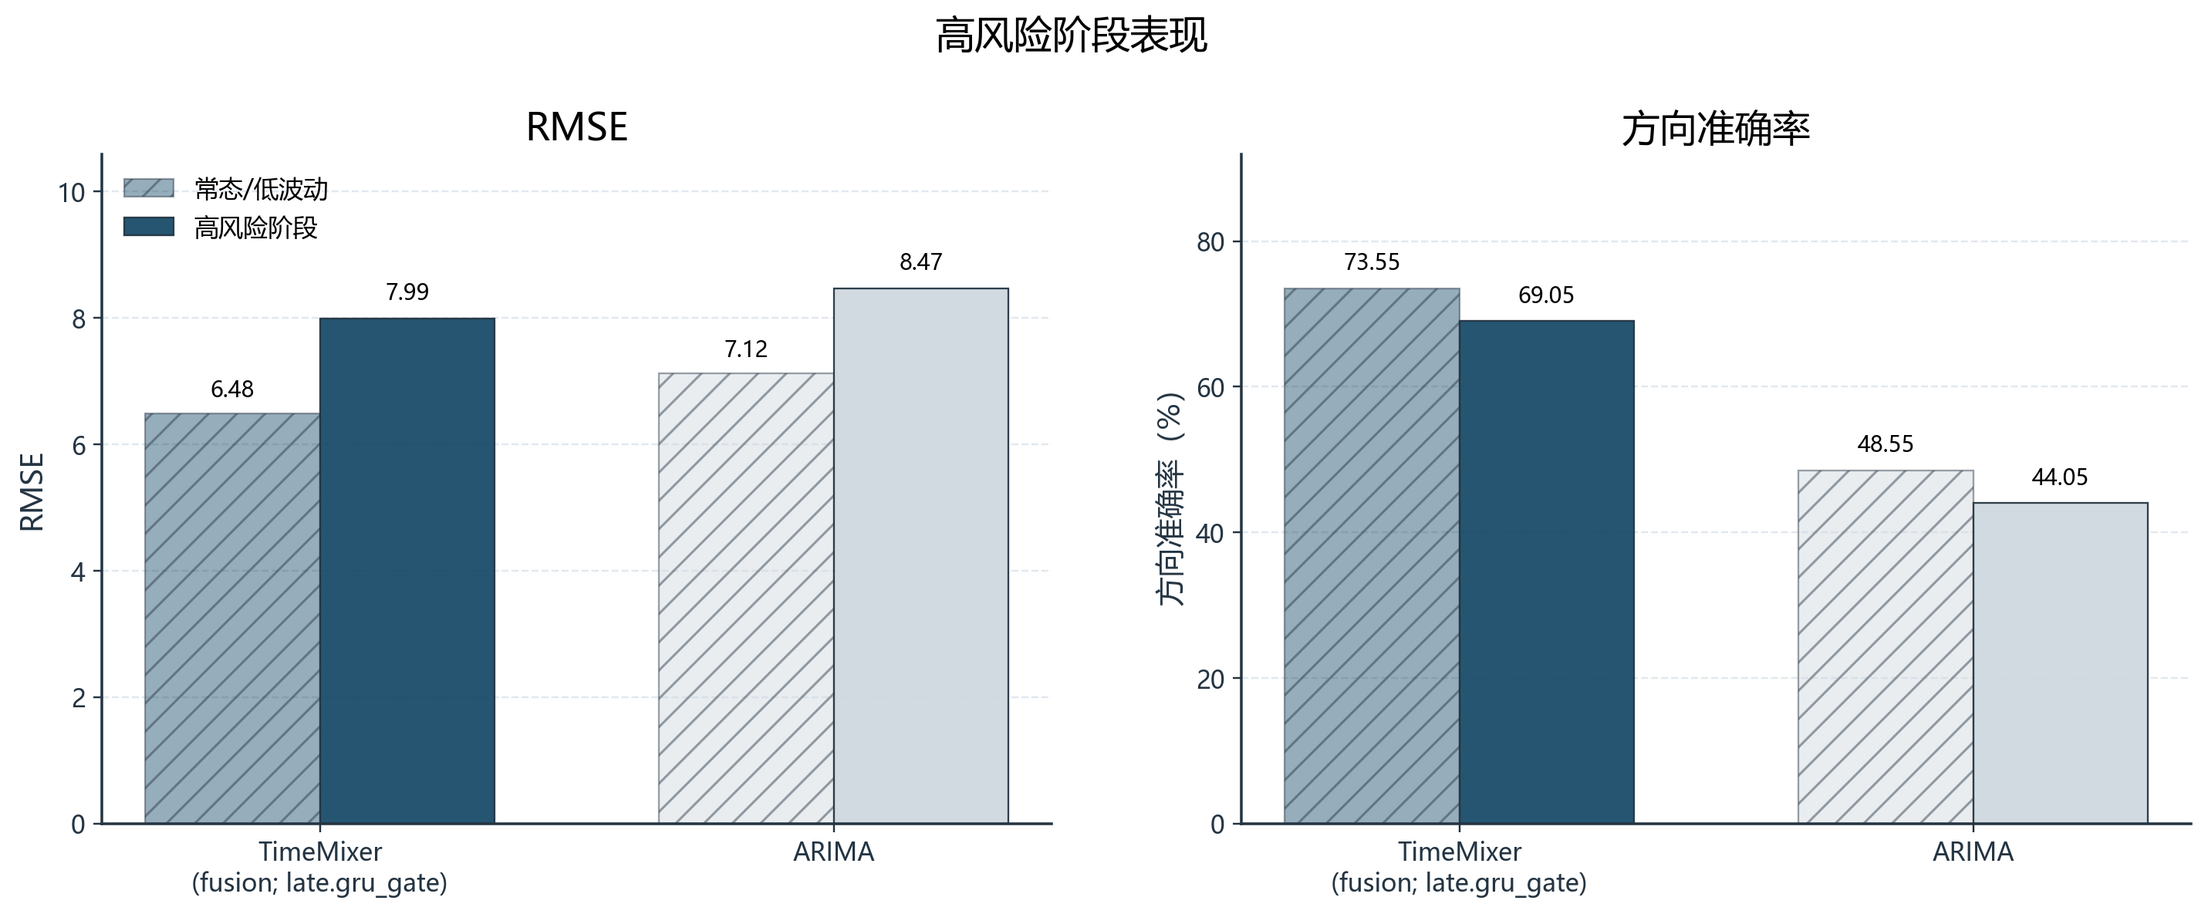
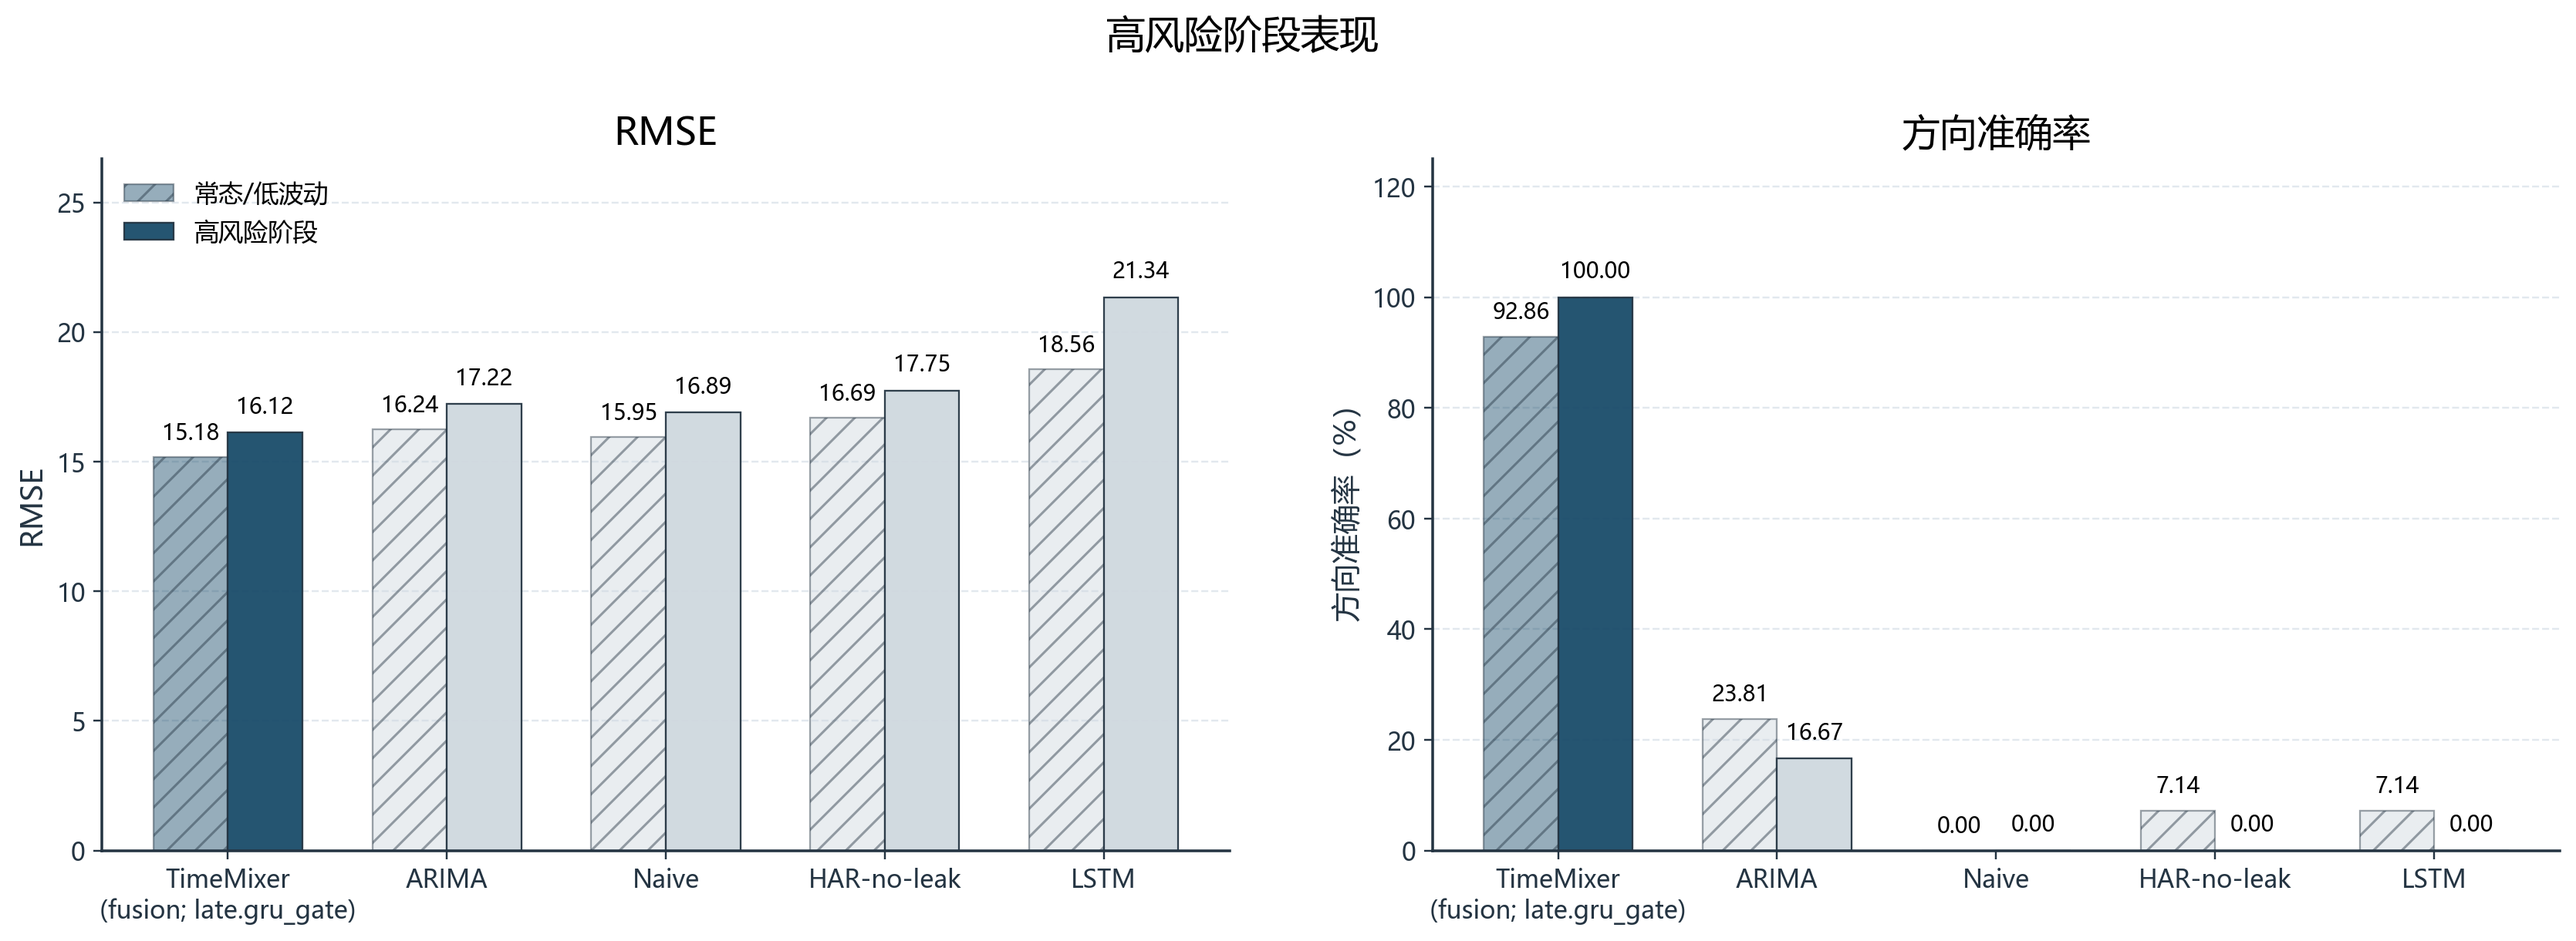
更新可视化

diff --git a/5_statistical_analysis/scripts/plot_evaluation_figures.py b/5_statistical_analysis/scripts/plot_evaluation_figures.py
@@ -17,7 +17,6 @@ ROBUSTNESS_PATH = TABLE_DIR / "robustness_comparison_table.csv"
 HIGH_VOLATILITY_PATH = TABLE_DIR / "high_volatility_model_performance.csv"
 
 MAIN_COLOR = PALETTE["main"]
-ARIMA_COLOR = PALETTE["orange"]
 NEUTRAL_COLOR = "#cfd8df"
 NEUTRAL_DARK = "#7d8b96"
 GRID_COLOR = PALETTE["grid"]
@@ -218,18 +217,24 @@ def plot_high_volatility_performance() -> None:
 
     frame = pd.read_csv(HIGH_VOLATILITY_PATH)
     require_columns(frame, ["model", "regime", "rmse", "direction_acc"], HIGH_VOLATILITY_PATH)
-    frame = frame[frame["model"].isin([MAINLINE_LABEL, ARIMA_LABEL])].copy()
+    model_order = [MAINLINE_LABEL, "ARIMA", "Naive", "HAR-no-leak", "LSTM"]
+    frame = frame[frame["model"].isin(model_order)].copy()
     if frame.empty:
-        raise ValueError(f"{HIGH_VOLATILITY_PATH} has no mainline/ARIMA rows.")
+        raise ValueError(f"{HIGH_VOLATILITY_PATH} has no rows for the selected model set.")
     regime_order = ["normal_or_low_volatility", "high_volatility"]
     regime_labels = {"normal_or_low_volatility": "常态/低波动", "high_volatility": "高风险阶段"}
-    model_order = [MAINLINE_LABEL, ARIMA_LABEL]
-    model_labels = {MAINLINE_LABEL: "TimeMixer\n(fusion; late.gru_gate)", ARIMA_LABEL: "ARIMA"}
+    model_labels = {
+        MAINLINE_LABEL: "TimeMixer\n(fusion; late.gru_gate)",
+        "ARIMA": "ARIMA",
+        "Naive": "Naive",
+        "HAR-no-leak": "HAR-no-leak",
+        "LSTM": "LSTM",
+    }
     bar_width = 0.34
     x = np.arange(len(model_order))
 
     configure_evaluation_style()
-    fig, axes = plt.subplots(1, 2, figsize=(13.6, 5.8), gridspec_kw={"wspace": 0.20})
+    fig, axes = plt.subplots(1, 2, figsize=(16.0, 6.0), gridspec_kw={"wspace": 0.18})
     metric_info = [("rmse", "RMSE"), ("direction_acc", "方向准确率（%）")]
     for ax, (metric, ylabel) in zip(axes, metric_info):
         for offset_idx, regime in enumerate(regime_order):
@@ -238,7 +243,7 @@ def plot_high_volatility_performance() -> None:
             if metric == "direction_acc":
                 values = values * 100.0
             positions = x + (offset_idx - 0.5) * bar_width
-            colors = [model_color(model, model) for model in model_order]
+            colors = [MAIN_COLOR if model == MAINLINE_LABEL else NEUTRAL_COLOR for model in model_order]
             alpha = 0.45 if regime == "normal_or_low_volatility" else 0.94
             hatch = "//" if regime == "normal_or_low_volatility" else ""
             ax.bar(positions, values, width=bar_width, color=colors, alpha=alpha, hatch=hatch, edgecolor=PALETTE["line"], linewidth=0.75, label=regime_labels[regime])
@@ -264,27 +269,59 @@ def plot_mainline_fold_stability() -> None:
     frame = frame[frame["run_id"].eq(MAINLINE_RUN_ID)].sort_values("fold").copy()
     if len(frame) != 6:
         raise ValueError(f"Expected 6 mainline folds in {FOLD_METRICS_PATH}, got {len(frame)}.")
+    frame["direction_pct"] = frame["direction_acc"] * 100.0
 
     configure_evaluation_style()
-    fig, ax1 = plt.subplots(figsize=(11.6, 6.4))
-    ax2 = ax1.twinx()
-    ax1.plot(frame["fold"], frame["rmse"], marker="o", linewidth=2.6, markersize=7.5, color=MAIN_COLOR, label="RMSE")
-    ax2.plot(frame["fold"], frame["direction_acc"] * 100.0, marker="s", linewidth=2.2, markersize=6.8, color=ARIMA_COLOR, label="方向准确率")
-    ax1.set_xlabel("Rolling 折次")
-    ax1.set_ylabel("RMSE", color=MAIN_COLOR)
-    ax2.set_ylabel("方向准确率（%）", color=ARIMA_COLOR)
-    ax1.set_xticks(frame["fold"])
-    ax1.set_ylim(0, float(frame["rmse"].max()) * 1.18)
-    ax2.set_ylim(0, 100)
-    ax1.tick_params(axis="y", colors=MAIN_COLOR)
-    ax2.tick_params(axis="y", colors=ARIMA_COLOR)
-    style_axis(ax1, xgrid=True, ygrid=True)
-    ax2.spines["top"].set_visible(False)
-    lines = ax1.get_lines() + ax2.get_lines()
-    ax1.legend(lines, [line.get_label() for line in lines], frameon=False, loc="upper left")
-    ax1.set_title("TimeMixer (fusion; late.gru_gate) 折次结果")
-    fig.tight_layout()
+    fig, axes = plt.subplots(2, 1, figsize=(11.8, 8.2), sharex=True, gridspec_kw={"hspace": 0.16})
+    panel_specs = [
+        ("rmse", "RMSE", MAIN_COLOR, axes[0]),
+        ("direction_pct", "方向准确率（%）", PALETTE["blue"], axes[1]),
+    ]
+    for column, ylabel, color, ax in panel_specs:
+        ax.vlines(frame["fold"], 0, frame[column], color=NEUTRAL_DARK, linewidth=2.0, alpha=0.55)
+        ax.scatter(frame["fold"], frame[column], s=92, color=color, edgecolor=PALETTE["line"], linewidth=0.75, zorder=3)
+        for row in frame.itertuples(index=False):
+            value = getattr(row, column)
+            ax.text(row.fold, float(value) + float(frame[column].max()) * 0.03, f"{float(value):.2f}", ha="center", va="bottom", fontsize=9.3)
+        ax.set_ylabel(ylabel)
+        ax.set_ylim(0, float(frame[column].max()) * 1.22)
+        style_axis(ax, xgrid=False, ygrid=True)
+    axes[1].set_xlabel("Rolling 折次")
+    axes[1].set_xticks(frame["fold"])
+    fig.suptitle("TimeMixer (fusion; late.gru_gate) 折次结果", fontsize=16.5, y=0.98)
+    fig.subplots_adjust(left=0.10, right=0.985, top=0.90, bottom=0.10, hspace=0.18)
     save_figure(fig, FIGURE_DIR / "mainline_fold_stability.png", dpi=220)
+
+
+def plot_mainline_fold_stability_bars() -> None:
+    import matplotlib.pyplot as plt
+
+    frame = pd.read_csv(FOLD_METRICS_PATH)
+    require_columns(frame, ["run_id", "fold", "rmse", "direction_acc"], FOLD_METRICS_PATH)
+    frame = frame[frame["run_id"].eq(MAINLINE_RUN_ID)].sort_values("fold").copy()
+    if len(frame) != 6:
+        raise ValueError(f"Expected 6 mainline folds in {FOLD_METRICS_PATH}, got {len(frame)}.")
+    frame["direction_pct"] = frame["direction_acc"] * 100.0
+
+    configure_evaluation_style()
+    fig, axes = plt.subplots(2, 1, figsize=(11.8, 8.2), sharex=True, gridspec_kw={"hspace": 0.16})
+    panel_specs = [
+        ("rmse", "RMSE", MAIN_COLOR, axes[0]),
+        ("direction_pct", "方向准确率（%）", PALETTE["blue"], axes[1]),
+    ]
+    for column, ylabel, color, ax in panel_specs:
+        ax.bar(frame["fold"], frame[column], color=color, edgecolor=PALETTE["line"], linewidth=0.75, width=0.62)
+        for row in frame.itertuples(index=False):
+            value = getattr(row, column)
+            ax.text(row.fold, float(value) + float(frame[column].max()) * 0.03, f"{float(value):.2f}", ha="center", va="bottom", fontsize=9.3)
+        ax.set_ylabel(ylabel)
+        ax.set_ylim(0, float(frame[column].max()) * 1.22)
+        style_axis(ax, xgrid=False, ygrid=True)
+    axes[1].set_xlabel("Rolling 折次")
+    axes[1].set_xticks(frame["fold"])
+    fig.suptitle("TimeMixer (fusion; late.gru_gate) 折次结果", fontsize=16.5, y=0.98)
+    fig.subplots_adjust(left=0.10, right=0.985, top=0.90, bottom=0.10, hspace=0.18)
+    save_figure(fig, FIGURE_DIR / "mainline_fold_stability_bars.png", dpi=220)
 
 
 def main() -> None:
@@ -295,6 +332,7 @@ def main() -> None:
     plot_fusion_strategy_comparison()
     plot_high_volatility_performance()
     plot_mainline_fold_stability()
+    plot_mainline_fold_stability_bars()
     print(f"Evaluation figures refreshed in {FIGURE_DIR}")
 
 

diff --git a/5_statistical_analysis/scripts/analysis_common.py b/5_statistical_analysis/scripts/analysis_common.py
@@ -60,6 +60,24 @@ MODEL_DISPLAY_NAMES = {
     "ARIMA": "ARIMA",
 }
 
+FIXED_TEST_PREDICTION_PATTERNS = {
+    "TimeMixer (fusion; late.gru_gate)": [
+        "timemixer_late_gru_gate_mainline_final/**/best_run/predictions_test.csv",
+    ],
+    "ARIMA": [
+        "arima_residual/**/best_run/predictions_test.csv",
+    ],
+    "Naive": [
+        "naive_reference/**/best_run/predictions_test.csv",
+    ],
+    "HAR-no-leak": [
+        "har_no_leak_residual/**/best_run/predictions_test.csv",
+    ],
+    "LSTM": [
+        "lstm_residual/**/best_run/predictions_test.csv",
+    ],
+}
+
 PALETTE = {
     "main": "#174a68",
     "green": "#276749",
@@ -303,6 +321,28 @@ def available_prediction_frames() -> dict[str, pd.DataFrame]:
     if arima_path.exists():
         arima = pd.read_csv(arima_path, parse_dates=["date"])
         frames["ARIMA"] = arima.copy()
+    return frames
+
+
+def _latest_matching_official_file(patterns: Iterable[str]) -> Path | None:
+    matches: list[Path] = []
+    for pattern in patterns:
+        matches.extend(item for item in OFFICIAL_ROOT.glob(pattern) if item.is_file())
+    if not matches:
+        return None
+    return max(matches, key=lambda item: item.stat().st_mtime)
+
+
+def available_fixed_test_prediction_frames(model_names: Iterable[str] | None = None) -> dict[str, pd.DataFrame]:
+    requested = set(model_names or FIXED_TEST_PREDICTION_PATTERNS.keys())
+    frames: dict[str, pd.DataFrame] = {}
+    for model_name, patterns in FIXED_TEST_PREDICTION_PATTERNS.items():
+        if model_name not in requested:
+            continue
+        path = _latest_matching_official_file(patterns)
+        if path is None:
+            continue
+        frames[model_name] = pd.read_csv(path, parse_dates=["date"])
     return frames
 
 

diff --git a/5_statistical_analysis/scripts/build_robustness_summary.py b/5_statistical_analysis/scripts/build_robustness_summary.py
@@ -10,6 +10,7 @@ from analysis_common import (
     OFFICIAL_ROOT,
     PALETTE,
     TABLE_DIR,
+    available_fixed_test_prediction_frames,
     display_model_name,
     available_prediction_frames,
     configure_analysis_style,
@@ -95,13 +96,25 @@ def build_fold_metrics() -> pd.DataFrame:
 
 
 def build_high_volatility_performance() -> pd.DataFrame:
-    structured = load_analysis_structured()[["date", "abs_brent_return_1d", "high_volatility_flag"]].copy()
+    structured = load_analysis_structured()[["date", "reference_brent", "abs_brent_return_1d", "high_volatility_flag"]].copy()
     structured["date"] = pd.to_datetime(structured["date"])
-    frames = available_prediction_frames()
+    frames = available_fixed_test_prediction_frames(
+        [
+            display_model_name(MAINLINE_RUN_ID),
+            "ARIMA",
+            "Naive",
+            "HAR-no-leak",
+            "LSTM",
+        ]
+    )
     rows = []
     for model, pred in frames.items():
         merged = pred.copy()
         merged["date"] = pd.to_datetime(merged["date"])
+        if "predicted_price" not in merged.columns and "y_pred" in merged.columns:
+            merged["predicted_price"] = pd.to_numeric(merged["y_pred"], errors="coerce")
+        if "target_price" not in merged.columns and "y_true" in merged.columns:
+            merged["target_price"] = pd.to_numeric(merged["y_true"], errors="coerce")
         merged = merged.merge(structured, on="date", how="left")
         for flag, group in merged.groupby(merged["high_volatility_flag"].fillna(0).astype(int)):
             if group.empty:
